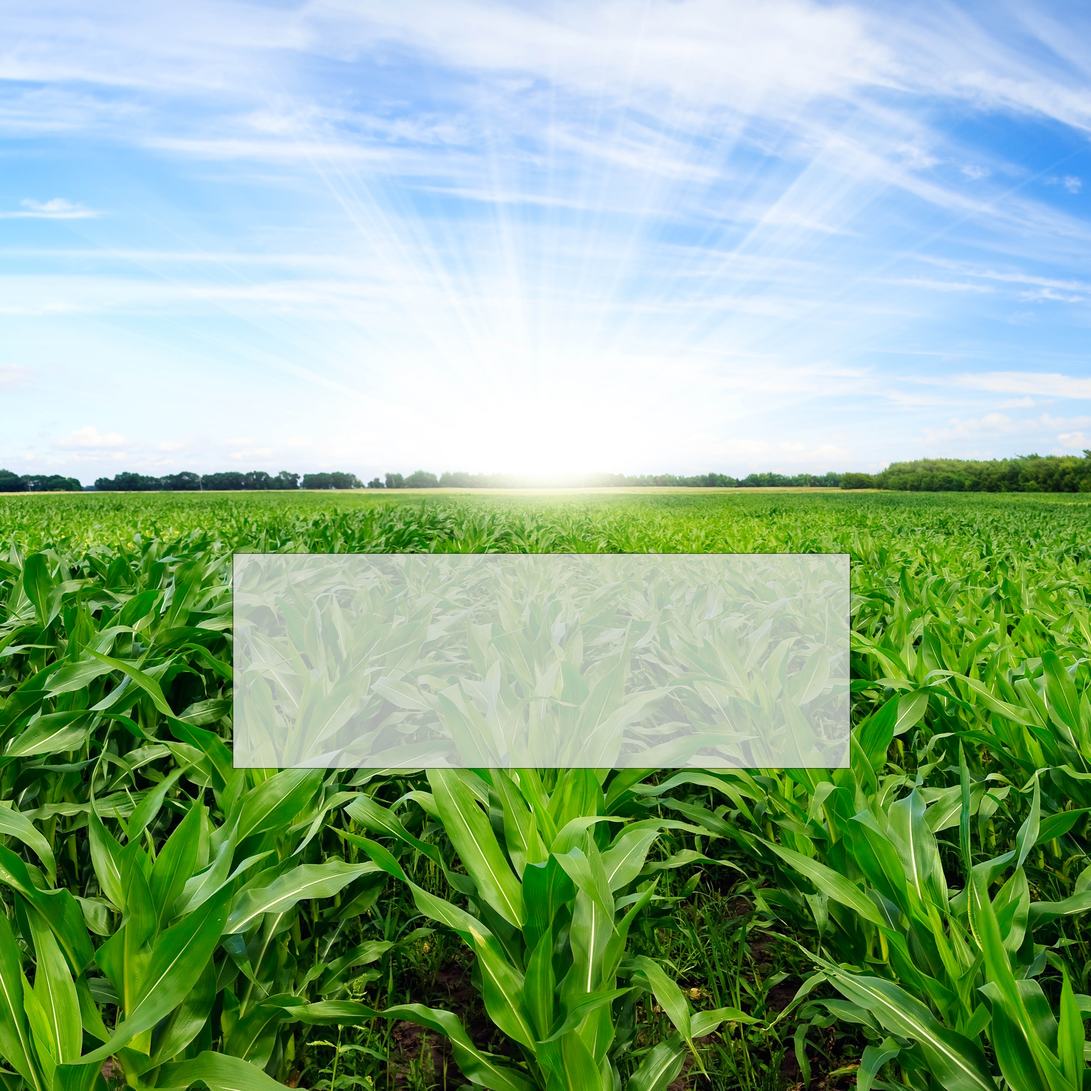
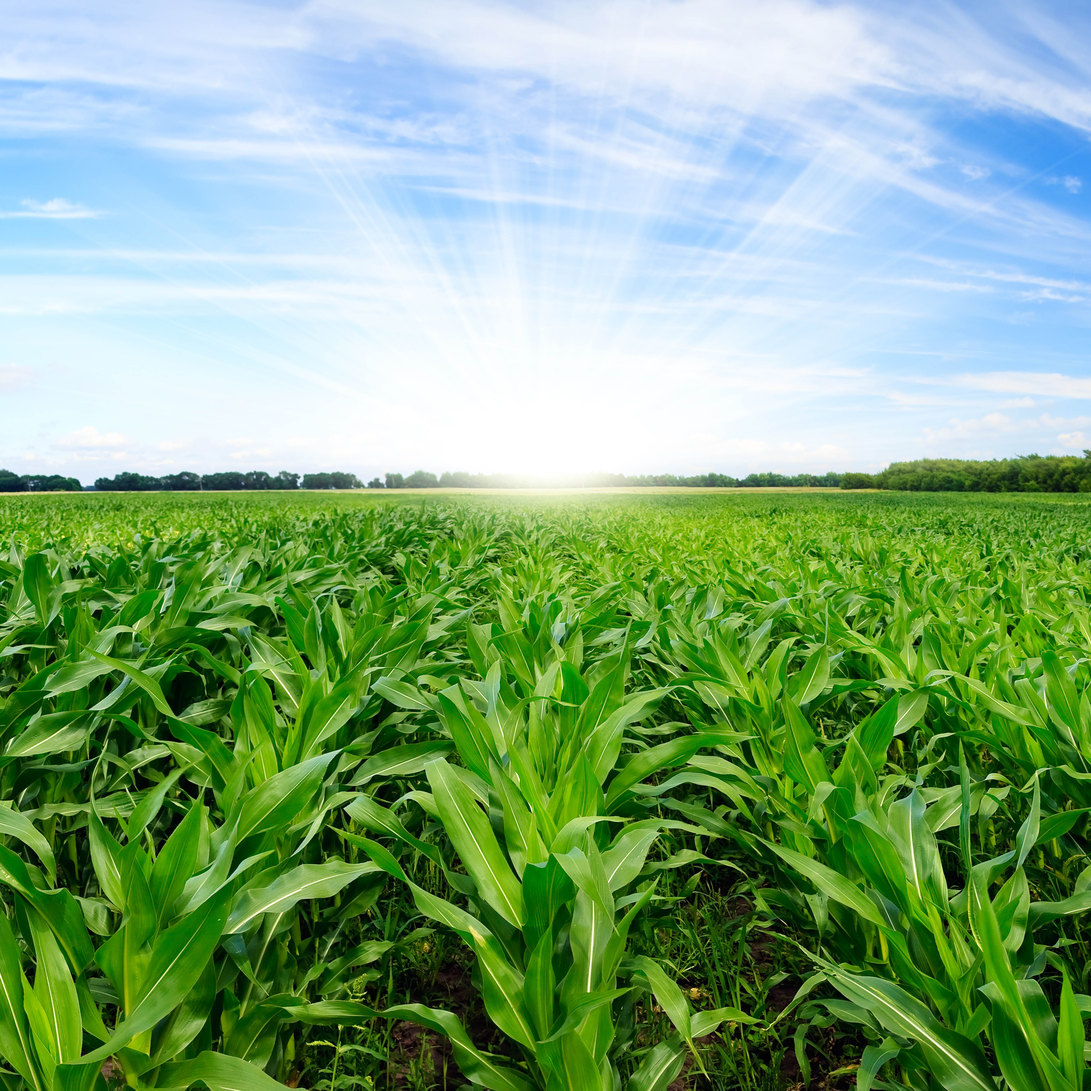
update to background and transparency

Changed region(s): [[0.1875, 0.5, 0.7812, 0.7188]]

diff --git a/assets/css/main.css b/assets/css/main.css
@@ -22,10 +22,11 @@ p {
     line-height: 28px;
     margin-bottom: 25px;
     font-size: 23px;
+background-color: rgba(66, 244, 107,0.75);
 }
 
 .centered {
-    text-align: center;
+    text-align: center; 
 }
 
 /* Links */
